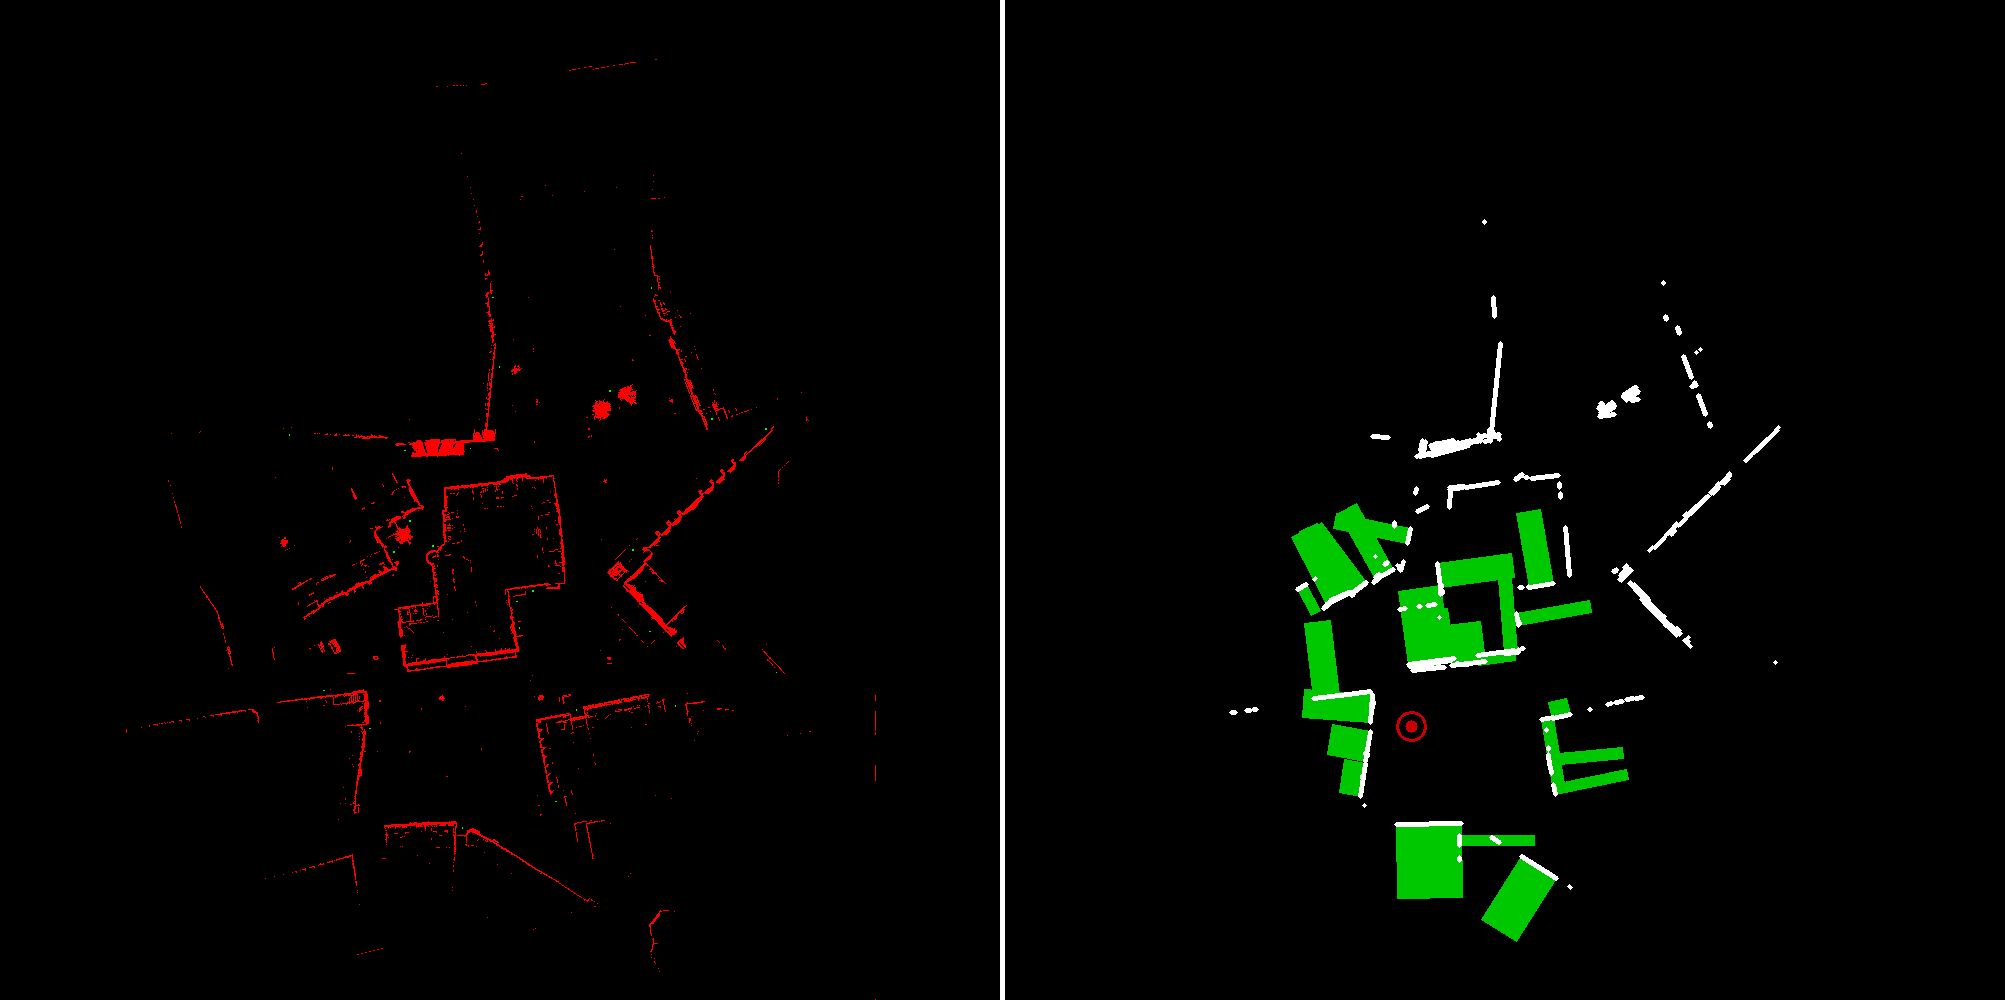
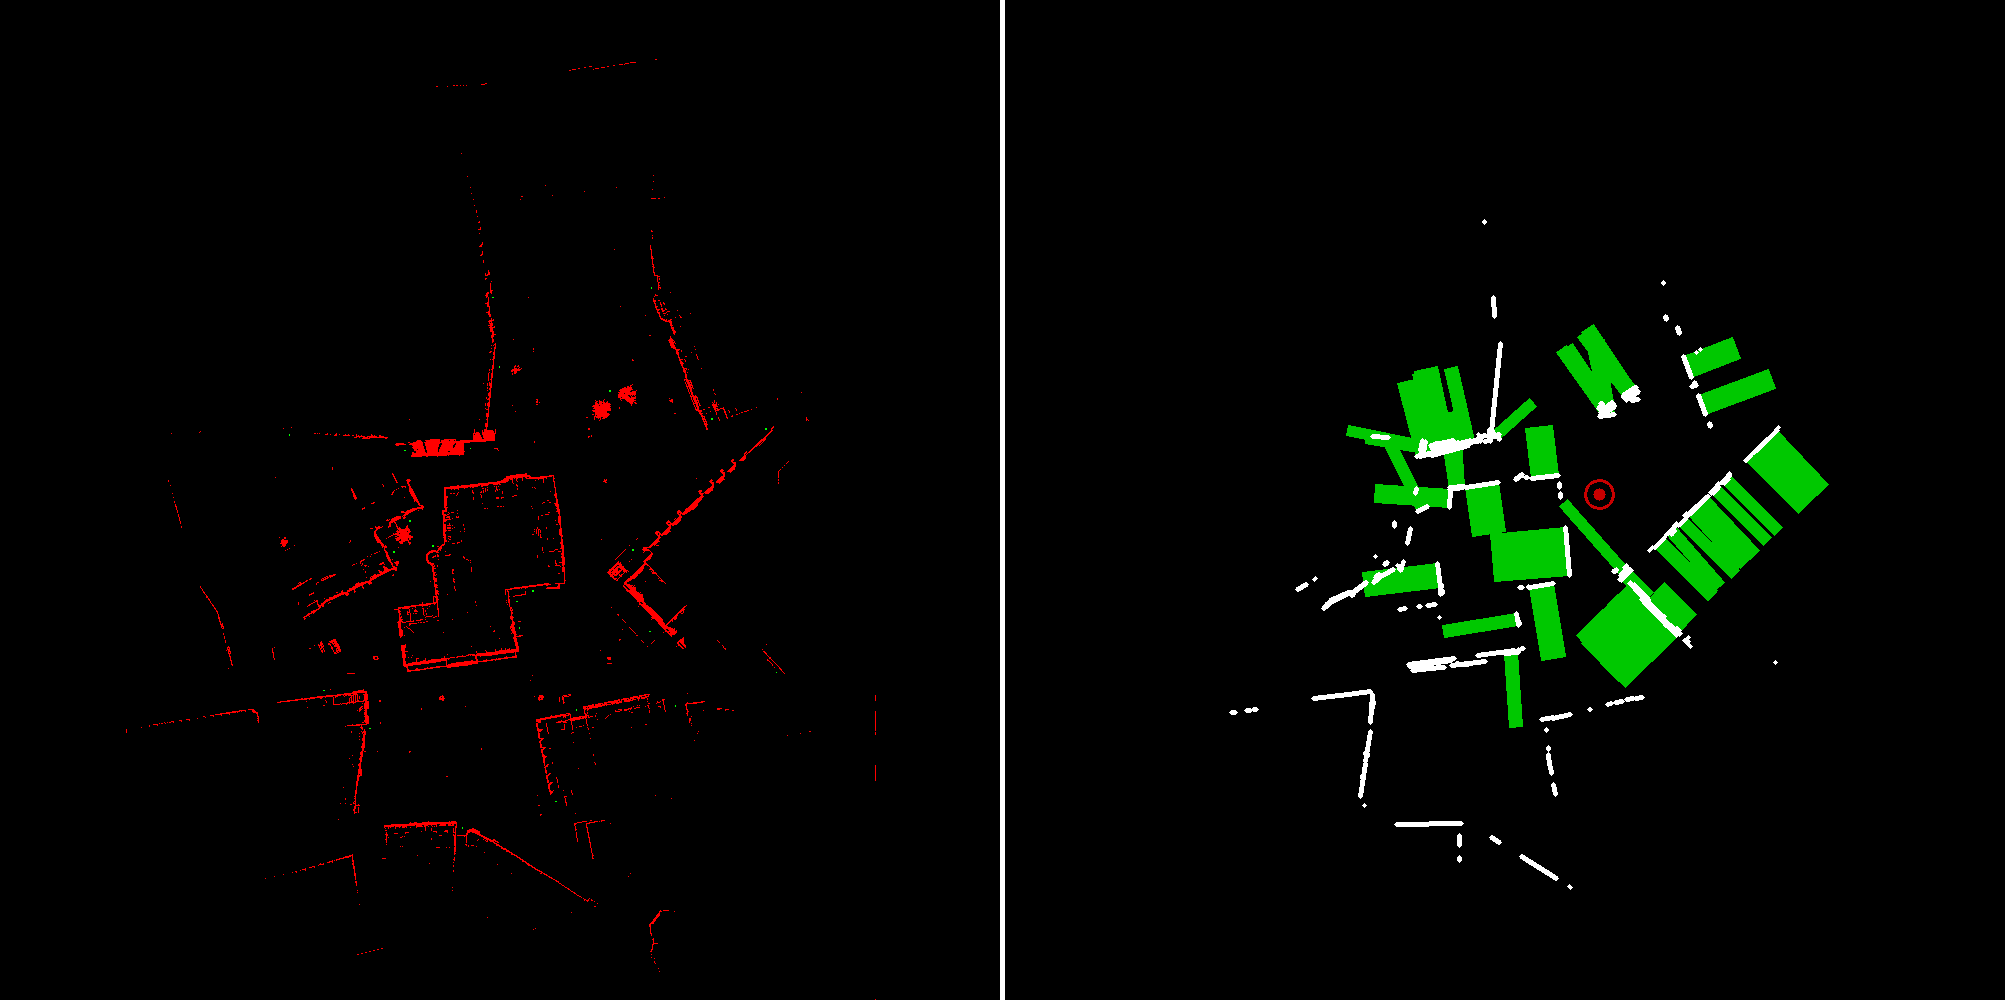
add uniform prior

diff --git a/serenity.py b/serenity.py
@@ -51,10 +51,9 @@ OBSTACLES = 10                #number of obstacles on the world map
 INTRUDER_TYPE = 1        #0 = momentum, 1 = waypoints
 MESSY_WORLD = True
 
-ROLLOUT_EPOCHS = int(1e3)
-ROLLOUT_TIME_STEPS = int(1e3)
-ROLLOUT_EPOCHS = 0
-ROLLOUT_TIME_STEPS = 0
+# ROLLOUT_EPOCHS = int(1e3)
+# ROLLOUT_TIME_STEPS = int(1e3)
+UNIFORM_PRIOR = True
 SHOW_INITIAL_PROBABILITY_MAP = False
 SHOW_SIMPLE_KERNEL = False
 SHOW_COMPLEX_KERNEL = False        #shows kernel at intruder's curreny xy coords
@@ -117,8 +116,7 @@ def policy_rollout(intruder_list):
     print "BEGINNING POLICY ROLLOUT..."
 
     for intruder in intruder_list:
- 
-        #establish a base kernel that will model the intruder behavior
+         #establish a base kernel that will model the intruder behavior
         simple_kernel = np.zeros([KERNEL_SIZE,KERNEL_SIZE], dtype=np.float32) 
         
         #also create a complex kernel construct: a separate
@@ -126,52 +124,56 @@ def policy_rollout(intruder_list):
         kernel = np.zeros([intruder.xdim, intruder.ydim, KERNEL_SIZE,KERNEL_SIZE], dtype=np.float32)
         midpoint = KERNEL_SIZE/2
 
-        #TRANSITION MATRIX
-        #represents the probability of transferring from any given
-        #state (x,y location) to any other state
-        if USE_VECTOR_MATRIX_MULTIPLY == True:
-            x_offset = intruder.my_world.movement_bounds[0]
-            y_offset = intruder.my_world.movement_bounds[2]
-            xdim = intruder.my_world.movement_bounds[1] - intruder.my_world.movement_bounds[0] + 1
-            ydim = intruder.my_world.movement_bounds[3] - intruder.my_world.movement_bounds[2] + 1
-            #transition_matrix = lil_matrix(np.zeros([xdim*ydim/DOWNSAMPLE, xdim*ydim/DOWNSAMPLE], dtype=np.float32))
-            transition_matrix = np.zeros([xdim*ydim/DOWNSAMPLE, xdim*ydim/DOWNSAMPLE], dtype=np.float32)
+        if UNIFORM_PRIOR == True:
+            geographic_probability_map = np.ones([intruder.xdim,intruder.ydim], dtype=np.float32)
+        else:
 
-        #this represents the overall probability of the intruder 
-        #being at any given x,y coordinate
-        geographic_probability_map = np.zeros([intruder.xdim,intruder.ydim], dtype=np.float32)
+            #TRANSITION MATRIX
+            #represents the probability of transferring from any given
+            #state (x,y location) to any other state
+            if USE_VECTOR_MATRIX_MULTIPLY == True:
+                x_offset = intruder.my_world.movement_bounds[0]
+                y_offset = intruder.my_world.movement_bounds[2]
+                xdim = intruder.my_world.movement_bounds[1] - intruder.my_world.movement_bounds[0] + 1
+                ydim = intruder.my_world.movement_bounds[3] - intruder.my_world.movement_bounds[2] + 1
+                #transition_matrix = lil_matrix(np.zeros([xdim*ydim/DOWNSAMPLE, xdim*ydim/DOWNSAMPLE], dtype=np.float32))
+                transition_matrix = np.zeros([xdim*ydim/DOWNSAMPLE, xdim*ydim/DOWNSAMPLE], dtype=np.float32)
 
-        for i in range(int(ROLLOUT_EPOCHS)):
-            #start the intruder at a random location
-            intruder.select_random_location()
-            intruder.select_waypoint()
+            #this represents the overall probability of the intruder 
+            #being at any given x,y coordinate
+            geographic_probability_map = np.zeros([intruder.xdim,intruder.ydim], dtype=np.float32)
 
-            for j in range(int(ROLLOUT_TIME_STEPS)):
+            for i in range(int(ROLLOUT_EPOCHS)):
+                #start the intruder at a random location
+                intruder.select_random_location()
+                intruder.select_waypoint()
 
-                #move the intruder to a new square
-                prev_x = intruder.x
-                prev_y = intruder.y
-                intruder.step()
+                for j in range(int(ROLLOUT_TIME_STEPS)):
 
-                #determine the kernel location that corresponds
-                #to the intruder's new position
-                delta_x = intruder.x-prev_x
-                delta_y = intruder.y-prev_y
+                    #move the intruder to a new square
+                    prev_x = intruder.x
+                    prev_y = intruder.y
+                    intruder.step()
 
-                #update simple and complex kernels
-                try:
-                    simple_kernel[midpoint+delta_x][midpoint+delta_y] += 1
-                    kernel[prev_x][prev_y][midpoint + delta_x][midpoint+delta_y] += 1
-                except IndexError:
-                    print('Intruder stepped too far.')
-                #update overall probability map
-                geographic_probability_map[intruder.x][intruder.y] += 1
+                    #determine the kernel location that corresponds
+                    #to the intruder's new position
+                    delta_x = intruder.x-prev_x
+                    delta_y = intruder.y-prev_y
 
-                #update transition matrix
-                if USE_VECTOR_MATRIX_MULTIPLY == True:
-                    #transition_matrix[((prev_x-x_offset)*ydim+(prev_y-y_offset))/DOWNSAMPLE , ((intruder.x-x_offset)*ydim+(intruder.y-y_offset))/DOWNSAMPLE] += 1
-                    transition_matrix[((prev_x-x_offset)*ydim+(prev_y-y_offset))/DOWNSAMPLE][((intruder.x-x_offset)*ydim+(intruder.y-y_offset))/DOWNSAMPLE] += 1
-                
+                    #update simple and complex kernels
+                    try:
+                        simple_kernel[midpoint+delta_x][midpoint+delta_y] += 1
+                        kernel[prev_x][prev_y][midpoint + delta_x][midpoint+delta_y] += 1
+                    except IndexError:
+                        print('Intruder stepped too far.')
+                    #update overall probability map
+                    geographic_probability_map[intruder.x][intruder.y] += 1
+
+                    #update transition matrix
+                    if USE_VECTOR_MATRIX_MULTIPLY == True:
+                        #transition_matrix[((prev_x-x_offset)*ydim+(prev_y-y_offset))/DOWNSAMPLE , ((intruder.x-x_offset)*ydim+(intruder.y-y_offset))/DOWNSAMPLE] += 1
+                        transition_matrix[((prev_x-x_offset)*ydim+(prev_y-y_offset))/DOWNSAMPLE][((intruder.x-x_offset)*ydim+(intruder.y-y_offset))/DOWNSAMPLE] += 1
+                    
 
         #normalize the simple kernel
         intruder.simple_kernel = simple_kernel/(np.sum(simple_kernel)+1e-100)

diff --git a/intruder.py b/intruder.py
@@ -54,8 +54,6 @@ class Intruder:
 
         exact_path = [[self.x, self.y]]
 
-        print('self.MAX_SPEED', self.MAX_SPEED)
-
         for next_x, next_y in rough_path:
             current_x, current_y = exact_path[-1]
             number_steps_between = floor(max(abs(next_x - current_x), abs(next_y - current_y))) 
@@ -64,9 +62,6 @@ class Intruder:
             intermediate_ys = np.atleast_2d(np.floor(np.linspace(current_y, next_y, number_steps_between/self.MAX_SPEED))).T
 
             intermediate_points = np.hstack([intermediate_xs, intermediate_ys])
-
-            print ''
-            print intermediate_points
 
             exact_path += [x for x in intermediate_points]
 
